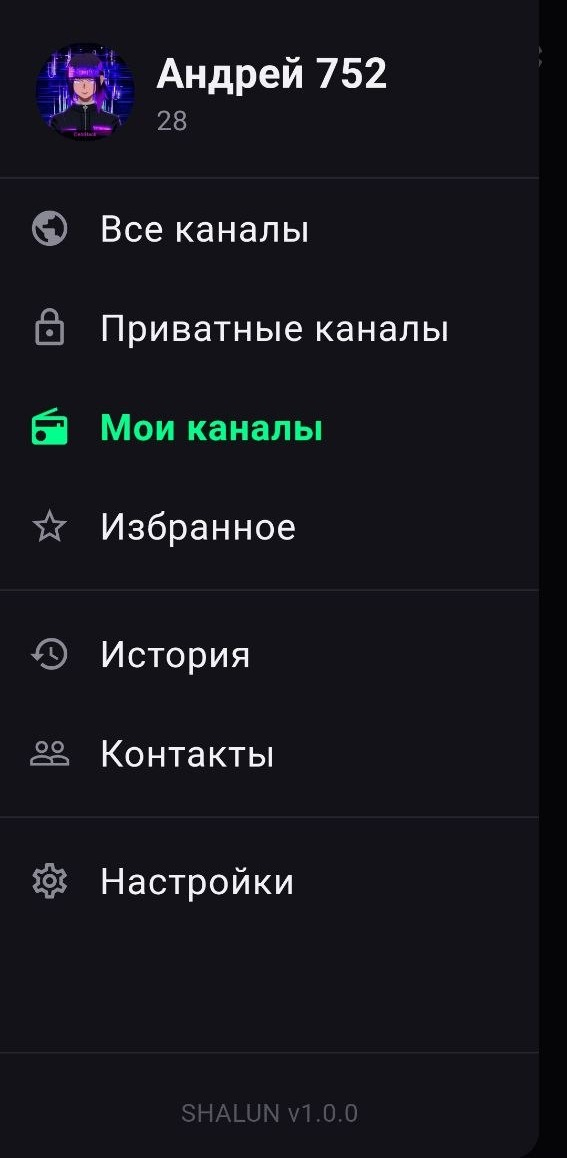
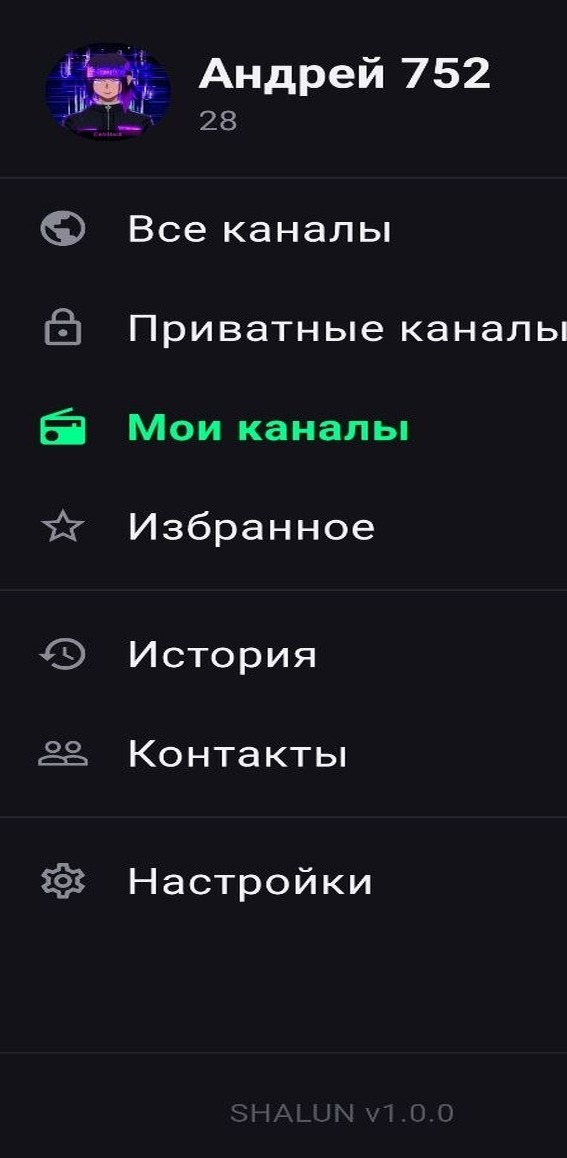
v11: drawer panel widened to full screen (no gap right, no blur) + telegram contact link @Vandrey63

diff --git a/shalun2/index.html b/shalun2/index.html
@@ -236,7 +236,7 @@ html.js-anim .reveal{opacity:0;transform:translateY(34px)}
         <svg viewBox="0 0 24 24"><path d="M12 20l-3.5-3.9a5 5 0 1 1 7 0L12 20zM4.6 9.3A10.6 10.6 0 0 1 12 6.5a10.6 10.6 0 0 1 7.4 2.8" fill="none" stroke="#fff" stroke-width="1.8" stroke-linecap="round"/></svg>
         <svg viewBox="0 0 26 24"><rect x="2" y="8" width="18" height="9" rx="2" fill="none" stroke="#fff" stroke-width="1.6"/><rect x="3.7" y="9.7" width="12" height="5.6" rx="1"/><path d="M22 11v3" stroke="#fff" stroke-width="2" stroke-linecap="round"/></svg>
       </span></div>
-      <img class="screen-img on" src="img/02-registration.jpg?v=14" alt="Экран регистрации в SHALUN">
+      <img class="screen-img on" src="img/02-registration.jpg?v=15" alt="Экран регистрации в SHALUN">
     </div>
   </div></div>
 </div></header>
@@ -262,11 +262,11 @@ html.js-anim .reveal{opacity:0;transform:translateY(34px)}
         <svg viewBox="0 0 24 24"><path d="M12 20l-3.5-3.9a5 5 0 1 1 7 0L12 20zM4.6 9.3A10.6 10.6 0 0 1 12 6.5a10.6 10.6 0 0 1 7.4 2.8" fill="none" stroke="#fff" stroke-width="1.8" stroke-linecap="round"/></svg>
         <svg viewBox="0 0 26 24"><rect x="2" y="8" width="18" height="9" rx="2" fill="none" stroke="#fff" stroke-width="1.6"/><rect x="3.7" y="9.7" width="12" height="5.6" rx="1"/><path d="M22 11v3" stroke="#fff" stroke-width="2" stroke-linecap="round"/></svg>
       </span></div>
-      <img class="screen-img on" data-s="0" src="img/01-onboarding-empty.jpg?v=14" alt="Регистрация">
-      <img class="screen-img" data-s="1" src="img/03-channels-list.jpg?v=14" alt="Мои каналы">
-      <img class="screen-img" data-s="2" src="img/04-search-join-dialog.jpg?v=14" alt="Запрос на вход">
-      <img class="screen-img" data-s="3" src="img/06-radio-screen.jpg?v=14" alt="Экран рации">
-      <img class="screen-img" data-s="4" src="img/07-drawer-menu.jpg?v=14" alt="Меню">
+      <img class="screen-img on" data-s="0" src="img/01-onboarding-empty.jpg?v=15" alt="Регистрация">
+      <img class="screen-img" data-s="1" src="img/03-channels-list.jpg?v=15" alt="Мои каналы">
+      <img class="screen-img" data-s="2" src="img/04-search-join-dialog.jpg?v=15" alt="Запрос на вход">
+      <img class="screen-img" data-s="3" src="img/06-radio-screen.jpg?v=15" alt="Экран рации">
+      <img class="screen-img" data-s="4" src="img/07-drawer-menu.jpg?v=15" alt="Меню">
     </div>
     <div class="cap" id="storyCap"><b>ШАГ 1</b> · РЕГИСТРАЦИЯ</div>
   </div></div>
@@ -276,7 +276,7 @@ html.js-anim .reveal{opacity:0;transform:translateY(34px)}
     <h3>Заходишь <em>по позывному</em></h3>
     <p>Тапни круг, своё фото из галереи. <b>Позывной</b>, как тебя слышать в эфире. <b>Маршрут</b> по желанию, например <b>№28</b>. Жми «Начать».</p>
     <span class="hint"><svg viewBox="0 0 24 24" fill="none" stroke-width="2"><path d="M12 22s8-4 8-10V5l-8-3-8 3v7c0 6 8 10 8 10z"/></svg>Ни паролей, ни СМС: ключ шифрования живёт в телефоне</span>
-    <img class="screen-mini" src="img/01-onboarding-empty.jpg?v=14" alt="">
+    <img class="screen-mini" src="img/01-onboarding-empty.jpg?v=15" alt="">
   </div>
 
   <div class="step right" data-s="1">
@@ -284,7 +284,7 @@ html.js-anim .reveal{opacity:0;transform:translateY(34px)}
     <h3>Находишь <em>свой канал</em></h3>
     <p>Поиск сверху, по названию. 🔒 замóк — приватный, без замка открытый. Свой маршрут ищется за секунду: <b>«Сызрань-28»</b>. Внизу — «+ Создать канал», если везёшь новый.</p>
     <span class="hint"><svg viewBox="0 0 24 24" fill="none" stroke-width="2"><circle cx="11" cy="11" r="7"/><path d="M21 21l-4.35-4.35"/></svg>Создатель канала становится его админом</span>
-    <img class="screen-mini" src="img/03-channels-list.jpg?v=14" alt="">
+    <img class="screen-mini" src="img/03-channels-list.jpg?v=15" alt="">
   </div>
 
   <div class="step left" data-s="2">
@@ -292,7 +292,7 @@ html.js-anim .reveal{opacity:0;transform:translateY(34px)}
     <h3>Приватный — <em>по запросу</em></h3>
     <p>Тап по замкнутому каналу: «Отправить запрос». Админ увидит тебя во «Запросах на вход» и подтвердит. Так в эфир не попадает случайный шум с дороги.</p>
     <span class="hint"><svg viewBox="0 0 24 24" fill="none" stroke-width="2"><path d="M20 21v-2a4 4 0 0 0-4-4H8a4 4 0 0 0-4 4v2"/><circle cx="12" cy="7" r="4"/></svg>Или код-приглашение от админа</span>
-    <img class="screen-mini" src="img/04-search-join-dialog.jpg?v=14" alt="">
+    <img class="screen-mini" src="img/04-search-join-dialog.jpg?v=15" alt="">
   </div>
 
   <div class="step right" data-s="3">
@@ -300,7 +300,7 @@ html.js-anim .reveal{opacity:0;transform:translateY(34px)}
     <h3>Держишь кнопку — <em>говоришь</em></h3>
     <p>«Эфир свободен» → жми и держи <b>ГОВОРИТЬ</b> → стал <b>ГОВОРЮ</b>. Отпустил — эфир свободен для следующего. Кто-то опередил — увидишь «Говорит: Серёга», перебьёшь, когда он отпустит.</p>
     <span class="hint"><svg viewBox="0 0 24 24" fill="none" stroke-width="2"><rect x="9" y="2" width="6" height="12" rx="3"/><path d="M5 10a7 7 0 0 0 14 0M12 19v3"/></svg>Во вкладке «Онлайн» видно, кто в канале и кто вещает</span>
-    <img class="screen-mini" src="img/06-radio-screen.jpg?v=14" alt="">
+    <img class="screen-mini" src="img/06-radio-screen.jpg?v=15" alt="">
   </div>
 
   <div class="step left" data-s="4">
@@ -308,7 +308,7 @@ html.js-anim .reveal{opacity:0;transform:translateY(34px)}
     <h3>Меню — <em>всё под рукой</em></h3>
     <p>Свайп от левого края: каналы, приватные, мои, избранное, история разговоров, контакты, настройки. <b>История</b>: разобрать, кто и что передавал.</p>
     <span class="hint"><svg viewBox="0 0 24 24" fill="none" stroke-width="2"><path d="M17 21v-2a4 4 0 0 0-4-4H5a4 4 0 0 0-4 4v2M9 7a4 4 0 1 0 0 .01M23 21v-2a4 4 0 0 0-3-3.87M16 3.13a4 4 0 0 1 0 7.75"/></svg>Настройки: звук PTT, вибрация, шум</span>
-    <img class="screen-mini" src="img/07-drawer-menu.jpg?v=14" alt="">
+    <img class="screen-mini" src="img/07-drawer-menu.jpg?v=15" alt="">
   </div>
 </div></section>
 
@@ -340,7 +340,7 @@ html.js-anim .reveal{opacity:0;transform:translateY(34px)}
     <div class="q"><b>Что за «запросы на вход» и зачем админ?<i>+</i></b>
       <div class="a"><p>Приватный канал = только свои. Админ одобряет, кикает, банит и мьютит — у эфира есть хозяин. Первым в канал зашёл <b>создатель</b> — он и админ. Вдвоём не светиться: кинь другу <b>код-приглашение</b>.</p></div></div>
     <div class="q"><b>Где скачать?<i>+</i></b>
-      <div class="a"><p>Приложение <b>в разработке</b>. Готовится к маршруту: сначала общий эфир и сервер, тогда и релиз. Хочешь в первых тестировщиках, пиши админу, поставим вручную.</p></div></div>
+      <div class="a"><p>Приложение <b>в разработке</b>. Готовится к маршруту: сначала общий эфир и сервер, тогда и релиз. Хочешь в первых тестировщиках, <a href="https://t.me/Vandrey63" style="color:var(--green);text-decoration:none;border-bottom:1px solid rgba(0,250,140,.35)">пиши админу @Vandrey63</a>, поставим вручную.</p></div></div>
   </div>
 </div></section>
 
@@ -349,7 +349,7 @@ html.js-anim .reveal{opacity:0;transform:translateY(34px)}
     <div class="f-big">SHAL<span>UN</span></div>
     <p style="margin-top:12px;color:var(--mut);font-size:13px">Онлайн-рация для водителей · v1.0.0</p>
   </div>
-  <div class="f-note">Статус: <b>в разработке</b>.<br>Эфир строится. Скоро будет слышно.<br>Связь с админом — в Telegram.</div>
+  <div class="f-note">Статус: <b>в разработке</b>.<br>Эфир строится. Скоро будет слышно.<br><a href="https://t.me/Vandrey63" style="color:var(--green);text-decoration:none;border-bottom:1px solid rgba(0,250,140,.35)">Связь с админом — @Vandrey63</a></div>
 </div></footer>
 
 <script>
